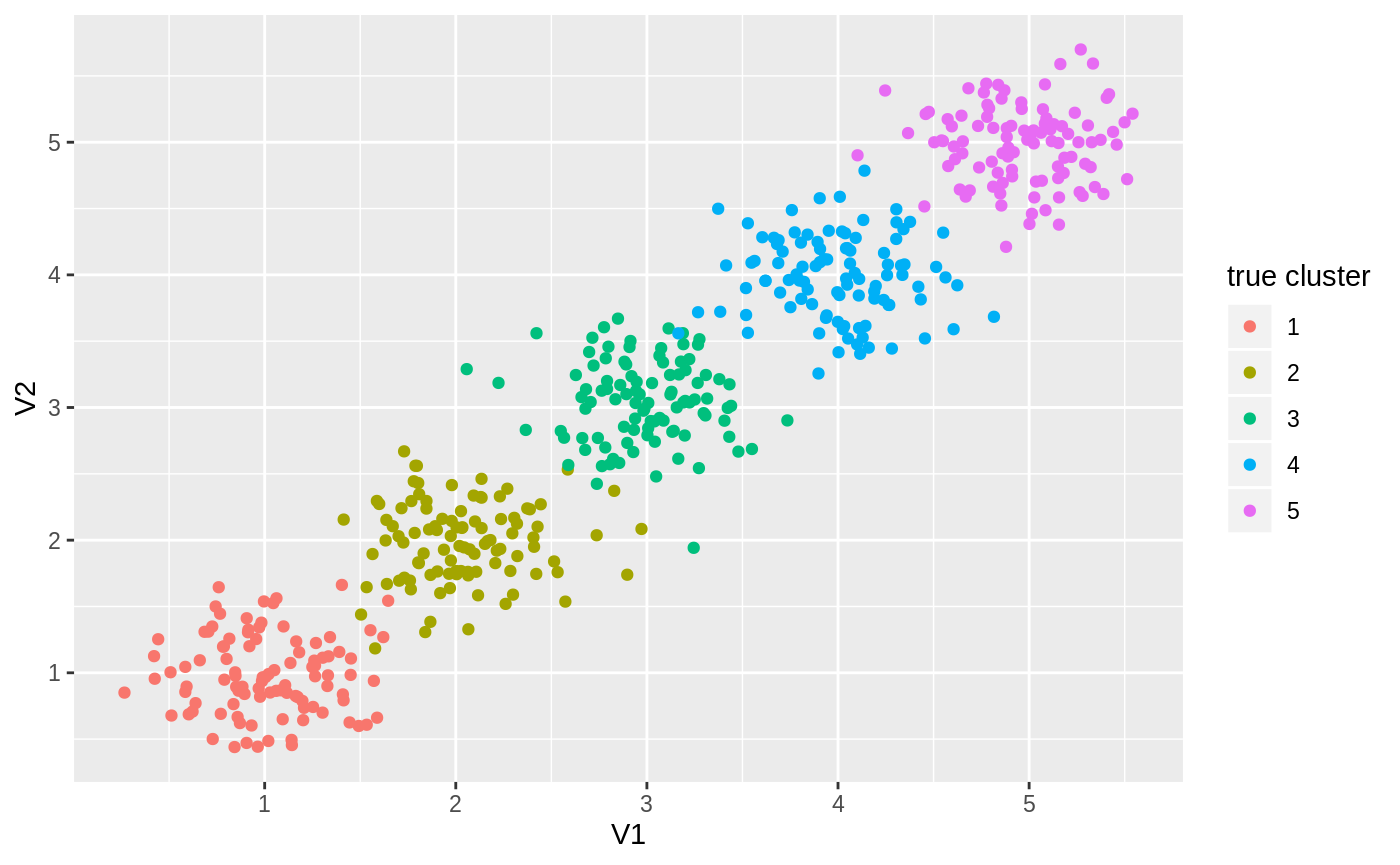
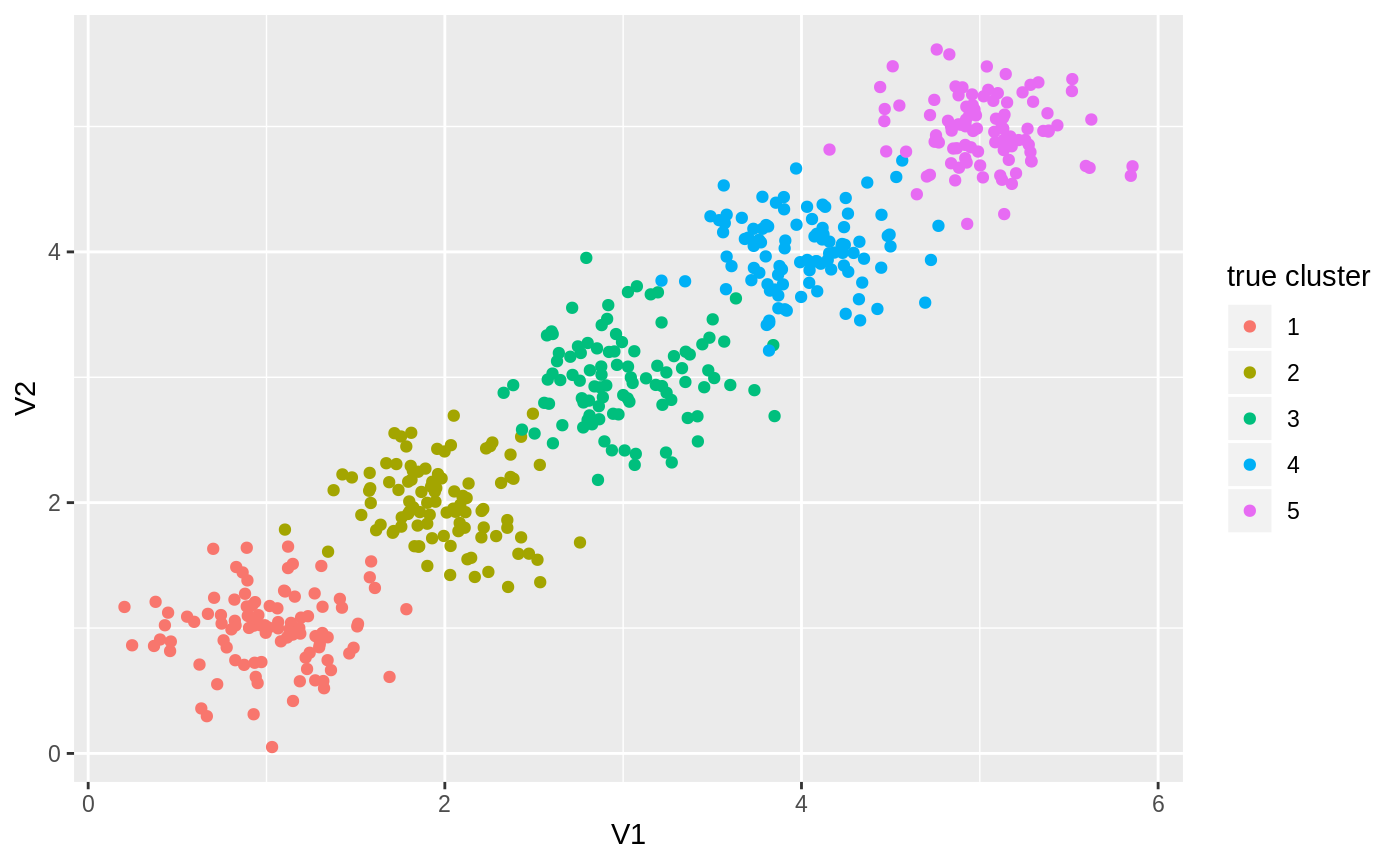
Built site for tglkmeans: 0.3.1.9000@e31889c

diff --git a/articles/usage.html b/articles/usage.html
@@ -108,16 +108,16 @@
 <pre><code>## # A tibble: 500 x 4
 ##       id    V1    V2 true_clust
 ##    &lt;int&gt; &lt;dbl&gt; &lt;dbl&gt;      &lt;int&gt;
-##  1     1 0.726 1.35           1
-##  2     2 0.801 1.10           1
-##  3     3 1.26  1.05           1
-##  4     4 0.931 0.603          1
-##  5     5 1.08  0.868          1
-##  6     6 0.915 1.32           1
-##  7     7 0.638 0.771          1
-##  8     8 0.920 1.20           1
-##  9     9 1.14  0.494          1
-## 10    10 0.969 0.882          1
+##  1     1 1.06  1.16           1
+##  2     2 1.24  0.803          1
+##  3     3 1.30  0.847          1
+##  4     4 1.15  0.948          1
+##  5     5 0.665 0.297          1
+##  6     6 0.928 0.312          1
+##  7     7 0.940 0.610          1
+##  8     8 0.893 1.38           1
+##  9     9 0.972 0.729          1
+## 10    10 1.19  1.08           1
 ## # … with 490 more rows</code></pre>
 <p>This is how our data looks like:</p>
 <div class="sourceCode" id="cb3"><pre class="sourceCode r"><code class="sourceCode r"><a class="sourceLine" id="cb3-1" data-line-number="1">data <span class="op">%&gt;%</span><span class="st"> </span><span class="kw">ggplot</span>(<span class="kw">aes</span>(<span class="dt">x=</span>V1, <span class="dt">y=</span>V2, <span class="dt">color=</span><span class="kw"><a href="https://rdrr.io/r/base/factor.html">factor</a></span>(true_clust))) <span class="op">+</span><span class="st"> </span></a>
@@ -134,34 +134,36 @@
 <pre><code>## KMEans: will generate seeds
 ## KMeans into generate seeds
 ## at seed 0
-## add new core from 133 to 0
+## add new core from 207 to 0
 ## at seed 1
 ## done update min distance
 ## seed range 350 450
-## picked up 485 dist was 2.26095
-## add new core from 485 to 1
+## picked up 437 dist was 1.78255
+## add new core from 437 to 1
 ## at seed 2
 ## done update min distance
 ## seed range 300 400
-## picked up 302 dist was 0.985756
-## add new core from 302 to 2
+## picked up 10 dist was 1.48638
+## add new core from 10 to 2
 ## at seed 3
 ## done update min distance
 ## seed range 250 350
-## picked up 276 dist was 0.685741
-## add new core from 276 to 3
+## picked up 181 dist was 0.665879
+## add new core from 181 to 3
 ## at seed 4
 ## done update min distance
 ## seed range 200 300
-## picked up 4 dist was 0.67053
-## add new core from 4 to 4
+## picked up 313 dist was 0.70493
+## add new core from 313 to 4
 ## KMEans: reassign after init
 ## KMEans: iter 0
-## KMEans: iter 1 changed 2
+## KMEans: iter 1 changed 8
 ## KMEans: iter 1
-## KMEans: iter 2 changed 2
+## KMEans: iter 2 changed 5
 ## KMEans: iter 2
-## KMEans: iter 3 changed 0</code></pre>
+## KMEans: iter 3 changed 1
+## KMEans: iter 3
+## KMEans: iter 4 changed 0</code></pre>
 <p>The returned list contains 3 fields:</p>
 <div class="sourceCode" id="cb7"><pre class="sourceCode r"><code class="sourceCode r"><a class="sourceLine" id="cb7-1" data-line-number="1"><span class="kw"><a href="https://rdrr.io/r/base/names.html">names</a></span>(km)</a></code></pre></div>
 <pre><code>## [1] "centers" "cluster" "size"</code></pre>
@@ -170,42 +172,42 @@
 <pre><code>## # A tibble: 5 x 3
 ##   clust    V1    V2
 ##   &lt;int&gt; &lt;dbl&gt; &lt;dbl&gt;
-## 1     1  1.02 0.981
-## 2     2  2.01 1.98 
-## 3     3  4.01 3.99 
-## 4     4  4.96 4.98 
-## 5     5  2.99 3.03</code></pre>
+## 1     1  1.98 1.98 
+## 2     2  3.98 3.97 
+## 3     3  1.01 0.997
+## 4     4  2.97 2.97 
+## 5     5  5.02 4.96</code></pre>
 <p>clusters are numbered according to <code>order_func</code> (see ‘Custom cluster ordering’ section).</p>
 <p><code>km$cluster</code> contains tibble with <code>id</code> column with the observation id (<code>1:n</code> if no id column was supplied), and <code>clust</code> column with the observation assigned cluster:</p>
 <div class="sourceCode" id="cb11"><pre class="sourceCode r"><code class="sourceCode r"><a class="sourceLine" id="cb11-1" data-line-number="1">km<span class="op">$</span>cluster</a></code></pre></div>
 <pre><code>## # A tibble: 500 x 2
 ##    id    clust
 ##    &lt;chr&gt; &lt;int&gt;
-##  1 1         1
-##  2 2         1
-##  3 3         1
-##  4 4         1
-##  5 5         1
-##  6 6         1
-##  7 7         1
-##  8 8         1
-##  9 9         1
-## 10 10        1
+##  1 1         3
+##  2 2         3
+##  3 3         3
+##  4 4         3
+##  5 5         3
+##  6 6         3
+##  7 7         3
+##  8 8         3
+##  9 9         3
+## 10 10        3
 ## # … with 490 more rows</code></pre>
 <p><code>km$size</code> contains tibble with <code>clust</code> column and <code>n</code> column with the number of points in each cluster:</p>
 <div class="sourceCode" id="cb13"><pre class="sourceCode r"><code class="sourceCode r"><a class="sourceLine" id="cb13-1" data-line-number="1">km<span class="op">$</span>size</a></code></pre></div>
 <pre><code>## # A tibble: 5 x 2
 ##   clust     n
 ##   &lt;int&gt; &lt;int&gt;
-## 1     1   100
-## 2     2    97
-## 3     3    98
-## 4     4   100
-## 5     5   105</code></pre>
+## 1     1    98
+## 2     2   101
+## 3     3   100
+## 4     4    99
+## 5     5   102</code></pre>
 <p>We can now check our clustering performance - fraction of observations that were classified correctly (Note that <code>match_clusters</code> function is internal to the package and is used only in this vignette):</p>
 <div class="sourceCode" id="cb15"><pre class="sourceCode r"><code class="sourceCode r"><a class="sourceLine" id="cb15-1" data-line-number="1">d &lt;-<span class="st"> </span>tglkmeans<span class="op">:::</span><span class="kw">match_clusters</span>(data, km, <span class="dv">5</span>)</a>
 <a class="sourceLine" id="cb15-2" data-line-number="2"><span class="kw"><a href="https://rdrr.io/r/base/sum.html">sum</a></span>(d<span class="op">$</span>true_clust <span class="op">==</span><span class="st"> </span>d<span class="op">$</span>new_clust, <span class="dt">na.rm=</span><span class="ot">TRUE</span>) <span class="op">/</span><span class="st"> </span><span class="kw"><a href="https://rdrr.io/r/base/sum.html">sum</a></span>(<span class="op">!</span><span class="kw"><a href="https://rdrr.io/r/base/NA.html">is.na</a></span>(d<span class="op">$</span>new_clust))</a></code></pre></div>
-<pre><code>## [1] 0.982</code></pre>
+<pre><code>## [1] 0.974</code></pre>
 <p>And plot the results:</p>
 <div class="sourceCode" id="cb17"><pre class="sourceCode r"><code class="sourceCode r"><a class="sourceLine" id="cb17-1" data-line-number="1">d <span class="op">%&gt;%</span><span class="st"> </span><span class="kw">ggplot</span>(<span class="kw">aes</span>(<span class="dt">x=</span>V1, <span class="dt">y=</span>V2, <span class="dt">color=</span><span class="kw"><a href="https://rdrr.io/r/base/factor.html">factor</a></span>(new_clust), <span class="dt">shape=</span><span class="kw"><a href="https://rdrr.io/r/base/factor.html">factor</a></span>(true_clust))) <span class="op">+</span><span class="st"> </span></a>
 <a class="sourceLine" id="cb17-2" data-line-number="2"><span class="st">    </span><span class="kw">geom_point</span>() <span class="op">+</span><span class="st"> </span></a>
@@ -228,11 +230,11 @@
 <pre><code>## # A tibble: 5 x 3
 ##   clust    V1    V2
 ##   &lt;int&gt; &lt;dbl&gt; &lt;dbl&gt;
-## 1     1  1.02 0.981
-## 2     2  2.02 1.98 
-## 3     3  2.99 3.04 
-## 4     4  4.01 3.99 
-## 5     5  4.97 4.99</code></pre>
+## 1     1  1.01  1.00
+## 2     2  1.99  1.99
+## 3     3  2.98  2.97
+## 4     4  3.98  3.97
+## 5     5  5.02  4.96</code></pre>
 </div>
 <div id="missing-data" class="section level2">
 <h2 class="hasAnchor">
@@ -241,18 +243,18 @@
 <div class="sourceCode" id="cb20"><pre class="sourceCode r"><code class="sourceCode r"><a class="sourceLine" id="cb20-1" data-line-number="1">data<span class="op">$</span>V1[<span class="kw"><a href="https://rdrr.io/r/base/sample.html">sample</a></span>(<span class="dv">1</span><span class="op">:</span><span class="kw"><a href="https://rdrr.io/r/base/nrow.html">nrow</a></span>(data), <span class="kw"><a href="https://rdrr.io/r/base/Round.html">round</a></span>(<span class="kw"><a href="https://rdrr.io/r/base/nrow.html">nrow</a></span>(data)<span class="op">*</span><span class="fl">0.2</span>))] &lt;-<span class="st"> </span><span class="ot">NA</span></a>
 <a class="sourceLine" id="cb20-2" data-line-number="2">data</a></code></pre></div>
 <pre><code>## # A tibble: 500 x 4
-##       id     V1    V2 true_clust
-##    &lt;int&gt;  &lt;dbl&gt; &lt;dbl&gt;      &lt;int&gt;
-##  1     1  0.726 1.35           1
-##  2     2  0.801 1.10           1
-##  3     3  1.26  1.05           1
-##  4     4  0.931 0.603          1
-##  5     5  1.08  0.868          1
-##  6     6 NA     1.32           1
-##  7     7 NA     0.771          1
-##  8     8 NA     1.20           1
-##  9     9  1.14  0.494          1
-## 10    10  0.969 0.882          1
+##       id    V1    V2 true_clust
+##    &lt;int&gt; &lt;dbl&gt; &lt;dbl&gt;      &lt;int&gt;
+##  1     1 1.06  1.16           1
+##  2     2 1.24  0.803          1
+##  3     3 1.30  0.847          1
+##  4     4 1.15  0.948          1
+##  5     5 0.665 0.297          1
+##  6     6 0.928 0.312          1
+##  7     7 0.940 0.610          1
+##  8     8 0.893 1.38           1
+##  9     9 0.972 0.729          1
+## 10    10 1.19  1.08           1
 ## # … with 490 more rows</code></pre>
 <div class="sourceCode" id="cb22"><pre class="sourceCode r"><code class="sourceCode r"><a class="sourceLine" id="cb22-1" data-line-number="1">km &lt;-<span class="st"> </span><span class="kw"><a href="../reference/TGL_kmeans_tidy.html">TGL_kmeans_tidy</a></span>(data <span class="op">%&gt;%</span><span class="st"> </span><span class="kw">select</span>(id, <span class="kw">starts_with</span>(<span class="st">'V'</span>)), </a>
 <a class="sourceLine" id="cb22-2" data-line-number="2">              <span class="dt">k=</span><span class="dv">5</span>, </a>
@@ -260,7 +262,7 @@
 <a class="sourceLine" id="cb22-4" data-line-number="4">              <span class="dt">verbose=</span><span class="ot">FALSE</span>)</a>
 <a class="sourceLine" id="cb22-5" data-line-number="5">d &lt;-<span class="st"> </span>tglkmeans<span class="op">:::</span><span class="kw">match_clusters</span>(data, km, <span class="dv">5</span>)</a>
 <a class="sourceLine" id="cb22-6" data-line-number="6"><span class="kw"><a href="https://rdrr.io/r/base/sum.html">sum</a></span>(d<span class="op">$</span>true_clust <span class="op">==</span><span class="st"> </span>d<span class="op">$</span>new_clust, <span class="dt">na.rm=</span><span class="ot">TRUE</span>) <span class="op">/</span><span class="st"> </span><span class="kw"><a href="https://rdrr.io/r/base/sum.html">sum</a></span>(<span class="op">!</span><span class="kw"><a href="https://rdrr.io/r/base/NA.html">is.na</a></span>(d<span class="op">$</span>new_clust))</a></code></pre></div>
-<pre><code>## [1] 0.98</code></pre>
+<pre><code>## [1] 0.962</code></pre>
 <p>and plotting the results (without the NA’s) we get:</p>
 <div class="sourceCode" id="cb24"><pre class="sourceCode r"><code class="sourceCode r"><a class="sourceLine" id="cb24-1" data-line-number="1">d <span class="op">%&gt;%</span><span class="st"> </span><span class="kw">ggplot</span>(<span class="kw">aes</span>(<span class="dt">x=</span>V1, <span class="dt">y=</span>V2, <span class="dt">color=</span><span class="kw"><a href="https://rdrr.io/r/base/factor.html">factor</a></span>(new_clust), <span class="dt">shape=</span><span class="kw"><a href="https://rdrr.io/r/base/factor.html">factor</a></span>(true_clust))) <span class="op">+</span><span class="st"> </span></a>
 <a class="sourceLine" id="cb24-2" data-line-number="2"><span class="st">    </span><span class="kw">geom_point</span>() <span class="op">+</span><span class="st"> </span></a>

diff --git a/reference/TGL_kmeans_tidy.html b/reference/TGL_kmeans_tidy.html
@@ -234,67 +234,73 @@ if NULL, no reordering would be done.</p></td>
 <span class='no'>km</span> <span class='kw'>&lt;-</span> <span class='fu'>TGL_kmeans_tidy</span>(<span class='no'>d</span>, <span class='kw'>k</span> <span class='kw'>=</span> <span class='fl'>5</span>, <span class='st'>"euclid"</span>, <span class='kw'>verbose</span> <span class='kw'>=</span> <span class='fl'>TRUE</span>)</div><div class='output co'>#&gt; <span class='message'>id column: id</span></div><div class='output co'>#&gt; KMEans: will generate seeds
 #&gt; KMeans into generate seeds
 #&gt; at seed 0
-#&gt; add new core from 408 to 0
+#&gt; add new core from 69 to 0
 #&gt; at seed 1
 #&gt; done update min distance
 #&gt; seed range 350 450
-#&gt; picked up 78 dist was 2.85605
-#&gt; add new core from 78 to 1
+#&gt; picked up 475 dist was 2.77323
+#&gt; add new core from 475 to 1
 #&gt; at seed 2
 #&gt; done update min distance
 #&gt; seed range 300 400
-#&gt; picked up 243 dist was 1.25908
-#&gt; add new core from 243 to 2
+#&gt; picked up 239 dist was 1.32572
+#&gt; add new core from 239 to 2
 #&gt; at seed 3
 #&gt; done update min distance
 #&gt; seed range 250 350
-#&gt; picked up 391 dist was 0.656389
-#&gt; add new core from 391 to 3
+#&gt; picked up 124 dist was 0.669747
+#&gt; add new core from 124 to 3
 #&gt; at seed 4
 #&gt; done update min distance
 #&gt; seed range 200 300
-#&gt; picked up 107 dist was 0.64238
-#&gt; add new core from 107 to 4
+#&gt; picked up 467 dist was 0.466379
+#&gt; add new core from 467 to 4
 #&gt; KMEans: reassign after init
 #&gt; KMEans: iter 0
-#&gt; KMEans: iter 1 changed 4
+#&gt; KMEans: iter 1 changed 44
 #&gt; KMEans: iter 1
-#&gt; KMEans: iter 2 changed 1
+#&gt; KMEans: iter 2 changed 42
 #&gt; KMEans: iter 2
-#&gt; KMEans: iter 3 changed 0</div><div class='input'><span class='no'>km</span></div><div class='output co'>#&gt; $centers
+#&gt; KMEans: iter 3 changed 24
+#&gt; KMEans: iter 3
+#&gt; KMEans: iter 4 changed 5
+#&gt; KMEans: iter 4
+#&gt; KMEans: iter 5 changed 1
+#&gt; KMEans: iter 5
+#&gt; KMEans: iter 6 changed 0</div><div class='input'><span class='no'>km</span></div><div class='output co'>#&gt; $centers
 #&gt; # A tibble: 5 x 3
 #&gt;   clust    V1    V2
 #&gt;   &lt;int&gt; &lt;dbl&gt; &lt;dbl&gt;
-#&gt; 1     1 3.03  3.01 
-#&gt; 2     2 4.99  4.98 
-#&gt; 3     3 0.945 0.926
-#&gt; 4     4 4.03  4.04 
+#&gt; 1     1 5.00  4.99 
+#&gt; 2     2 0.945 0.926
+#&gt; 3     3 3.03  3.01 
+#&gt; 4     4 4.04  4.04 
 #&gt; 5     5 1.96  2.02 
 #&gt; 
 #&gt; $cluster
 #&gt; # A tibble: 500 x 2
 #&gt;    id    clust
 #&gt;    &lt;chr&gt; &lt;int&gt;
-#&gt;  1 1         3
-#&gt;  2 2         3
-#&gt;  3 3         3
-#&gt;  4 4         3
-#&gt;  5 5         3
-#&gt;  6 6         3
-#&gt;  7 7         3
-#&gt;  8 8         3
-#&gt;  9 9         3
-#&gt; 10 10        3
+#&gt;  1 1         2
+#&gt;  2 2         2
+#&gt;  3 3         2
+#&gt;  4 4         2
+#&gt;  5 5         2
+#&gt;  6 6         2
+#&gt;  7 7         2
+#&gt;  8 8         2
+#&gt;  9 9         2
+#&gt; 10 10        2
 #&gt; # … with 490 more rows
 #&gt; 
 #&gt; $size
 #&gt; # A tibble: 5 x 2
 #&gt;   clust     n
 #&gt;   &lt;int&gt; &lt;int&gt;
-#&gt; 1     1   101
-#&gt; 2     2   100
-#&gt; 3     3    98
-#&gt; 4     4    99
+#&gt; 1     1    99
+#&gt; 2     2    98
+#&gt; 3     3   101
+#&gt; 4     4   100
 #&gt; 5     5   102
 #&gt; </div></pre>
   </div>

diff --git a/reference/TGL_kmeans.html b/reference/TGL_kmeans.html
@@ -234,41 +234,41 @@ if NULL, no reordering would be done.</p></td>
 <span class='no'>km</span> <span class='kw'>&lt;-</span> <span class='fu'>TGL_kmeans</span>(<span class='no'>d</span>, <span class='kw'>k</span> <span class='kw'>=</span> <span class='fl'>5</span>, <span class='st'>"euclid"</span>, <span class='kw'>verbose</span> <span class='kw'>=</span> <span class='fl'>TRUE</span>)</div><div class='output co'>#&gt; <span class='message'>id column: id</span></div><div class='output co'>#&gt; KMEans: will generate seeds
 #&gt; KMeans into generate seeds
 #&gt; at seed 0
-#&gt; add new core from 92 to 0
+#&gt; add new core from 271 to 0
 #&gt; at seed 1
 #&gt; done update min distance
 #&gt; seed range 350 450
-#&gt; picked up 459 dist was 2.90066
-#&gt; add new core from 459 to 1
+#&gt; picked up 406 dist was 1.48905
+#&gt; add new core from 406 to 1
 #&gt; at seed 2
 #&gt; done update min distance
 #&gt; seed range 300 400
-#&gt; picked up 219 dist was 1.34221
-#&gt; add new core from 219 to 2
+#&gt; picked up 33 dist was 1.2727
+#&gt; add new core from 33 to 2
 #&gt; at seed 3
 #&gt; done update min distance
 #&gt; seed range 250 350
-#&gt; picked up 155 dist was 0.720098
-#&gt; add new core from 155 to 3
+#&gt; picked up 328 dist was 0.733069
+#&gt; add new core from 328 to 3
 #&gt; at seed 4
 #&gt; done update min distance
 #&gt; seed range 200 300
-#&gt; picked up 362 dist was 0.675854
-#&gt; add new core from 362 to 4
+#&gt; picked up 160 dist was 0.586651
+#&gt; add new core from 160 to 4
 #&gt; KMEans: reassign after init
 #&gt; KMEans: iter 0
-#&gt; KMEans: iter 1 changed 4
+#&gt; KMEans: iter 1 changed 6
 #&gt; KMEans: iter 1
-#&gt; KMEans: iter 2 changed 1
+#&gt; KMEans: iter 2 changed 4
 #&gt; KMEans: iter 2
 #&gt; KMEans: iter 3 changed 0</div><div class='input'><span class='fu'><a href='https://rdrr.io/r/base/names.html'>names</a></span>(<span class='no'>km</span>)</div><div class='output co'>#&gt; [1] "cluster" "centers" "size"   </div><div class='input'><span class='no'>km</span>$<span class='no'>centers</span></div><div class='output co'>#&gt;            V1       V2
-#&gt; [1,] 3.972232 4.046328
-#&gt; [2,] 2.004643 2.058945
-#&gt; [3,] 2.977600 3.015143
-#&gt; [4,] 1.019032 1.034553
+#&gt; [1,] 2.000776 2.053331
+#&gt; [2,] 3.969391 4.038842
+#&gt; [3,] 1.019032 1.034553
+#&gt; [4,] 2.964869 3.008410
 #&gt; [5,] 4.975310 5.048907</div><div class='input'><span class='fu'><a href='https://rdrr.io/r/utils/head.html'>head</a></span>(<span class='no'>km</span>$<span class='no'>cluster</span>)</div><div class='output co'>#&gt; 1 2 3 4 5 6 
-#&gt; 4 4 4 4 4 4 </div><div class='input'><span class='no'>km</span>$<span class='no'>size</span></div><div class='output co'>#&gt;   1   2   3   4   5 
-#&gt;  97 102 102 100  99 </div><div class='input'>
+#&gt; 3 3 3 3 3 3 </div><div class='input'><span class='no'>km</span>$<span class='no'>size</span></div><div class='output co'>#&gt;   1   2   3   4   5 
+#&gt; 101  98 100 102  99 </div><div class='input'>
 </div></pre>
   </div>
   <div class="col-md-3 hidden-xs hidden-sm" id="sidebar">
